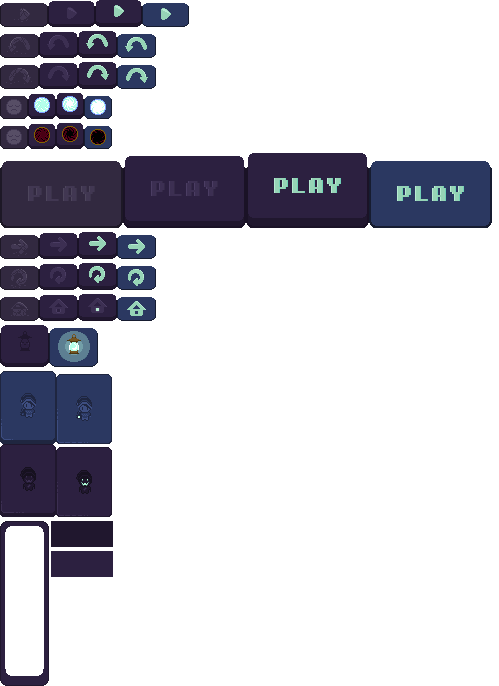
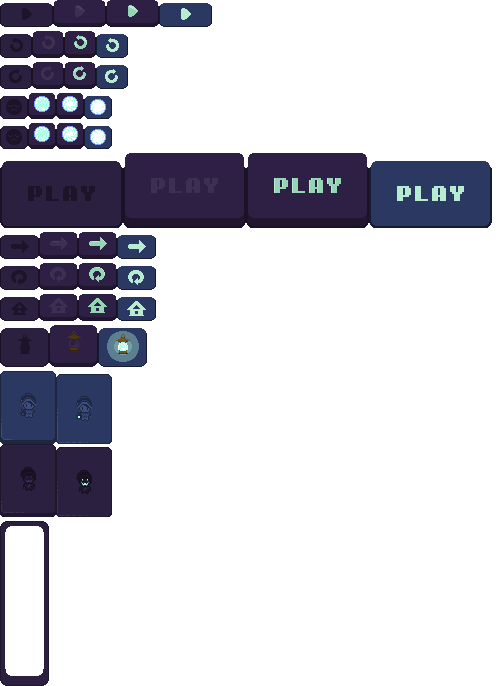
Adds system which controls amount of teleports and traps for each level. Changes buttons textures a bit.

diff --git a/core/src/com/jacktheogre/lightswitch/tools/AssetLoader.java b/core/src/com/jacktheogre/lightswitch/tools/AssetLoader.java
@@ -20,7 +20,6 @@ public class AssetLoader {
     public static final float LETTER_WIDTH = 20f * FONT_SCALE;
     public static final float LETTER_HEIGHT = 15 * FONT_SCALE;
     public static final int LEVEL_AMOUNT = 5;
-    private static int levelNum = 4;
     private AssetManager manager;
     public Texture characters, teleport, scale_fill, timer, trap;
     public Texture moon, buttons, joystick;
@@ -33,7 +32,7 @@ public class AssetLoader {
     public BitmapFont font;
     public Sound runningSound, teleportOpenSound;
     public Sound teleportCloseSound;
-    public FileHandle fileHandle;
+    public FileHandle logHandle, levelHandle;
 
     public AssetLoader() {
         this.manager = new AssetManager();
@@ -45,7 +44,8 @@ public class AssetLoader {
         if(manager == null)
             manager = new AssetManager();
 
-        fileHandle = Gdx.files.local("log.txt");
+        logHandle = Gdx.files.local("log.txt");
+        levelHandle = Gdx.files.local("levels.txt");
 
         manager.load("characters.png", Texture.class);
         manager.load("portals.png", Texture.class);
@@ -77,9 +77,9 @@ public class AssetLoader {
         teleportCloseSound = manager.get("tpClose.mp3", Sound.class);
         
 //        light_button = new TextureRegion(manager.get("light_button.png", Texture.class));
-        start_button = new TextureRegion(buttons, 1, 0, 188, 27);
-        undo_button = new TextureRegion(buttons, 0, 31, 156, 27);
-        redo_button = new TextureRegion(buttons, 0, 62, 156, 27);
+        start_button = new TextureRegion(buttons, 1, 0, 212, 27);
+        undo_button = new TextureRegion(buttons, 0, 31, 128, 27);
+        redo_button = new TextureRegion(buttons, 0, 62, 128, 27);
         teleport_button = new TextureRegion(buttons, 0, 93, 112, 26);
         trap_button = new TextureRegion(buttons, 0, 123, 112, 26);
         play_button = new TextureRegion(buttons, 0, 153, 492, 75);
@@ -88,7 +88,7 @@ public class AssetLoader {
         home_button = new TextureRegion(buttons, 0, 294, 156, 27);
         light_button = new TextureRegion(buttons, 0, 325, 98, 42);
         boy_button = new TextureRegion(buttons, 0, 371, 112, 73);
-        monster_button = new TextureRegion(buttons, 0, 444, 112, 73 );
+        monster_button = new TextureRegion(buttons, 0, 445, 112, 73 );
         scale = new TextureRegion(buttons, 0, 521, 49, 165);
         singleplayer_button = new TextureRegion(buttons, 51, 521, 62, 26);
         multiplayer_button = new TextureRegion(buttons, 51, 551, 62, 26);
@@ -100,33 +100,7 @@ public class AssetLoader {
     }
 
     public TiledMap getMap() {
-        return maps[levelNum];
-    }
-
-    public static int getLevelNum() {
-        return levelNum;
-    }
-
-    // TODO: 14.12.16 to each level
-    public int getAmountOfTeleports() {
-        return 2*(levelNum % 4);
-    }
-
-    public int getAmountOfTraps() {
-        return Math.max(0, (levelNum - 3));
-    }
-
-    public boolean isMaxLevel() {
-        if(levelNum == LEVEL_AMOUNT)
-            return true;
-        else
-            return false;
-    }
-    public void nextLevel() {
-        if(!isMaxLevel()) {
-            LevelManager.graph = null;
-            levelNum++;
-        }
+        return maps[LevelManager.getLevelNum()];
     }
 
     public float getLetterWidth() {
@@ -135,10 +109,6 @@ public class AssetLoader {
 
     public float getLetterHeight() {
         return (LETTER_HEIGHT/ FONT_SCALE)*font.getScaleY();
-    }
-
-    public void nullifyLevel() {
-        levelNum = 0;
     }
 
     public void dispose() {

diff --git a/core/src/com/jacktheogre/lightswitch/ai/LevelManager.java b/core/src/com/jacktheogre/lightswitch/ai/LevelManager.java
@@ -1,7 +1,16 @@
 package com.jacktheogre.lightswitch.ai;
 
+import com.badlogic.gdx.Gdx;
+import com.badlogic.gdx.files.FileHandle;
 import com.badlogic.gdx.maps.MapProperties;
 import com.badlogic.gdx.maps.tiled.TiledMap;
+import com.badlogic.gdx.utils.Array;
+import com.jacktheogre.lightswitch.tools.Assets;
+
+import java.util.HashMap;
+import java.util.Map;
+
+import static com.jacktheogre.lightswitch.tools.AssetLoader.LEVEL_AMOUNT;
 
 /**
  * Created by luna on 21.10.16.
@@ -15,7 +24,32 @@ public class LevelManager {
     public static GraphImp graph;
     public static int tilePixelWidth;
     public static int tilePixelHeight;
-    
+
+    static class Resourses {
+        public Integer teleports;
+        public Integer traps;
+
+        public Resourses(Integer teleports, Integer traps) {
+            this.teleports = teleports;
+            this.traps = traps;
+        }
+
+        @Override
+        public String toString() {
+            return String.format("%d teleports & %d traps", teleports, traps);
+        }
+    }
+
+    private static Map<Integer, Resourses> levelsMap;
+    private static int levelNum = 1;
+
+    static {
+        levelsMap = new HashMap<Integer, Resourses>();
+        if(!parseLevelsFile()) {
+            Gdx.app.exit();
+        }
+    }
+
     public static void loadLevel(TiledMap map) {
         tiledMap = map;
 
@@ -28,6 +62,55 @@ public class LevelManager {
         lvlPixelHeight = tilePixelHeight * lvlTileHeight;
 
         graph = GraphGenerator.generateGraph(tiledMap);
+    }
+
+    private static boolean parseLevelsFile() {
+        FileHandle levels = Assets.getAssetLoader().levelHandle;
+        String[] lines = levels.readString().split("\\r?\\n");
+        for (int i = 0; i < lines.length; i++) {
+            String[] columns = lines[i].split(" ");
+            int levelNum, teleportsNum, trapsNum;
+            try {
+                levelNum = Integer.parseInt(columns[0]);
+                teleportsNum = Integer.parseInt(columns[1]);
+                trapsNum = Integer.parseInt(columns[2]);
+                levelsMap.put(levelNum, new Resourses(teleportsNum, trapsNum));
+                Gdx.app.log("LevelManager", levelNum + " - " + teleportsNum + " - "+ trapsNum);
+            } catch (Exception e) {
+                Gdx.app.error("LevelManager", "Error parsing file");
+                return false;
+            }
+        }
+        return true;
+    }
+
+    public static Resourses getLevelResourses(int levelNum) {
+        return levelsMap.get(levelNum);
+    }
+
+    public static int getAmountOfTeleports() {
+        return getLevelResourses(levelNum).teleports;
+    }
+
+    public static int getAmountOfTraps() {
+        return getLevelResourses(levelNum).traps;
+    }
+
+    public static int getLevelNum() {
+        return levelNum;
+    }
+    public static boolean isMaxLevel() {
+        if(levelNum == LEVEL_AMOUNT)
+            return true;
+        else
+            return false;
+    }
+
+    public static void nextLevel() {
+        if(!isMaxLevel()) {
+            LevelManager.graph = null;
+            levelNum++;
+        }
     }
 
 }

diff --git a/core/src/com/jacktheogre/lightswitch/screens/GameOverScreen.java b/core/src/com/jacktheogre/lightswitch/screens/GameOverScreen.java
@@ -6,6 +6,7 @@ import com.badlogic.gdx.graphics.OrthographicCamera;
 import com.badlogic.gdx.utils.viewport.FitViewport;
 import com.badlogic.gdx.utils.viewport.Viewport;
 import com.jacktheogre.lightswitch.LightSwitch;
+import com.jacktheogre.lightswitch.ai.LevelManager;
 import com.jacktheogre.lightswitch.sprites.Button;
 import com.jacktheogre.lightswitch.tools.AssetLoader;
 import com.jacktheogre.lightswitch.tools.Assets;
@@ -60,7 +61,7 @@ public class GameOverScreen extends GameScreen{
         game.batch.begin();
         switch (state) {
             case WIN:
-                if(Assets.getAssetLoader().isMaxLevel()) {
+                if(LevelManager.isMaxLevel()) {
                     Assets.getAssetLoader().font.getData().setScale(1f);
                     Assets.getAssetLoader().font.draw(game.batch, "CONGRATULATIONS!",
                             gamePort.getWorldWidth() / 2 - 7.5f* Assets.getAssetLoader().getLetterWidth(),
@@ -117,11 +118,11 @@ public class GameOverScreen extends GameScreen{
         home.setPosition(replay.getBoundingRectangle().getX()+replay.getBoundingRectangle().getWidth() + INTERVAL, replay.getY());
         home.setScale(SCALE);
 
-        boolean nextLevelActive = !Assets.getAssetLoader().isMaxLevel() && state == State.WIN;
+        boolean nextLevelActive = !LevelManager.isMaxLevel() && state == State.WIN;
         next_level = new Button(Assets.getAssetLoader().next_level_button, nextLevelActive ? Button.State.ACTIVE : Button.State.DISABLED, this) {
             @Override
             protected void actUnpress() {
-                Assets.getAssetLoader().nextLevel();
+                LevelManager.nextLevel();
                 screen.getGame().setScreen(new GeneratingScreen(screen.getGame()));
             }
         };

diff --git a/core/src/com/jacktheogre/lightswitch/sprites/Monster.java b/core/src/com/jacktheogre/lightswitch/sprites/Monster.java
@@ -10,6 +10,7 @@ import com.badlogic.gdx.physics.box2d.FixtureDef;
 import com.badlogic.gdx.physics.box2d.World;
 import com.badlogic.gdx.utils.Array;
 import com.jacktheogre.lightswitch.Constants;
+import com.jacktheogre.lightswitch.ai.LevelManager;
 import com.jacktheogre.lightswitch.tools.AssetLoader;
 import com.jacktheogre.lightswitch.tools.Assets;
 
@@ -27,6 +28,7 @@ public class Monster extends GameActor {
     private State previousState;
     private float timeSinceTrapped = 0;
 
+    private boolean trapped = false;
     public Monster(World world, float x, float y) {
         super(world, x, y, Assets.getAssetLoader().characters);
 
@@ -36,7 +38,6 @@ public class Monster extends GameActor {
         initGraphics();
 
         texture = getTexture();
-//        playerStandRight = new TextureRegion(texture, 1, 1, 30, 30)
         setBounds(getX(), getY(), WIDTH, HEIGHT);
         setRegion(playerStandLeft);
 
@@ -90,9 +91,7 @@ public class Monster extends GameActor {
             trapped = false;
             isMoving = true;
         }
-//        Gdx.app.log("Monster", "Direction: "+getDirection() + ", speed: "+b2body.getLinearVelocity());
     }
-
 
     @Override
     public TextureRegion getFrame(float dt) {
@@ -211,6 +210,6 @@ public class Monster extends GameActor {
         if(trapped)
             return 0;
         else
-            return SPEED_BASE+6* AssetLoader.getLevelNum();
+            return SPEED_BASE+6*LevelManager.getLevelNum();
     }
 }

diff --git a/core/src/com/jacktheogre/lightswitch/tools/input/GameOverInputHandler.java b/core/src/com/jacktheogre/lightswitch/tools/input/GameOverInputHandler.java
@@ -4,6 +4,7 @@ import com.badlogic.gdx.Gdx;
 import com.badlogic.gdx.Input;
 import com.badlogic.gdx.InputProcessor;
 import com.badlogic.gdx.math.Vector3;
+import com.jacktheogre.lightswitch.ai.LevelManager;
 import com.jacktheogre.lightswitch.screens.GameOverScreen;
 import com.jacktheogre.lightswitch.screens.GeneratingScreen;
 import com.jacktheogre.lightswitch.screens.MainMenuScreen;
@@ -48,7 +49,7 @@ public class GameOverInputHandler implements InputProcessor {
         if(keycode == Input.Keys.ENTER) {
             enterButton.unpress();
             if(enterButton == screen.getNext_level())
-                Assets.getAssetLoader().nextLevel();
+                LevelManager.nextLevel();
             screen.getGame().setScreen(new GeneratingScreen(screen.getGame()));
         }
         if(keycode == Input.Keys.R) {
@@ -58,7 +59,7 @@ public class GameOverInputHandler implements InputProcessor {
         if(keycode == Input.Keys.N) {
             screen.getNext_level().unpress();
             if(screen.getNext_level().getState() == Button.State.DISABLED) {
-                Assets.getAssetLoader().nextLevel();
+                LevelManager.nextLevel();
                 screen.getGame().setScreen(new GeneratingScreen(screen.getGame()));
             }
         }

diff --git a/core/src/com/jacktheogre/lightswitch/screens/GeneratingScreen.java b/core/src/com/jacktheogre/lightswitch/screens/GeneratingScreen.java
@@ -239,14 +239,14 @@ public class GeneratingScreen extends GameScreen {
     }
 
     public boolean maxTeleports() {
-        if(teleports.size >= Assets.getAssetLoader().getAmountOfTeleports())
+        if(teleports.size >= LevelManager.getAmountOfTeleports())
             return true;
         else
             return false;
     }
 
     public boolean maxTraps() {
-        if(traps.size >= Assets.getAssetLoader().getAmountOfTraps())
+        if(traps.size >= LevelManager.getAmountOfTraps())
             return true;
         else
             return false;

diff --git a/core/src/com/jacktheogre/lightswitch/screens/MainMenuScreen.java b/core/src/com/jacktheogre/lightswitch/screens/MainMenuScreen.java
@@ -93,7 +93,7 @@ public class MainMenuScreen extends GameScreen{
 
             @Override
             protected void actUnpress() {
-                mainMenuScreen.setState(MainMenuScreen.State.CHOOSING_GAMEMODE);
+                mainMenuScreen.setState(MainMenuScreen.State.CHOOSING_CHARACTER);
             }
         };
         play_button.setPosition(gamePort.getWorldWidth() / 2 - play_button.getWidth() / 2, gamePort.getWorldHeight() / 2 - play_button.getHeight() / 2);

diff --git a/core/src/com/jacktheogre/lightswitch/replay/Logger.java b/core/src/com/jacktheogre/lightswitch/replay/Logger.java
@@ -16,7 +16,7 @@ public class Logger {
     private FileHandle fileHandle;
 
     public Logger() {
-        fileHandle = Assets.getAssetLoader().fileHandle;
+        fileHandle = Assets.getAssetLoader().logHandle;
         clearLog();
     }
 

diff --git a/core/src/com/jacktheogre/lightswitch/multiplayer/BluetoothSingleton.java b/core/src/com/jacktheogre/lightswitch/multiplayer/BluetoothSingleton.java
@@ -1,8 +1,5 @@
 package com.jacktheogre.lightswitch.multiplayer;
 
-import com.jacktheogre.lightswitch.tools.NullBluetoothManager;
-import com.jacktheogre.lightswitch.tools.iBluetooth;
-
 /**
  * Created by luna on 09.02.17.
  */
